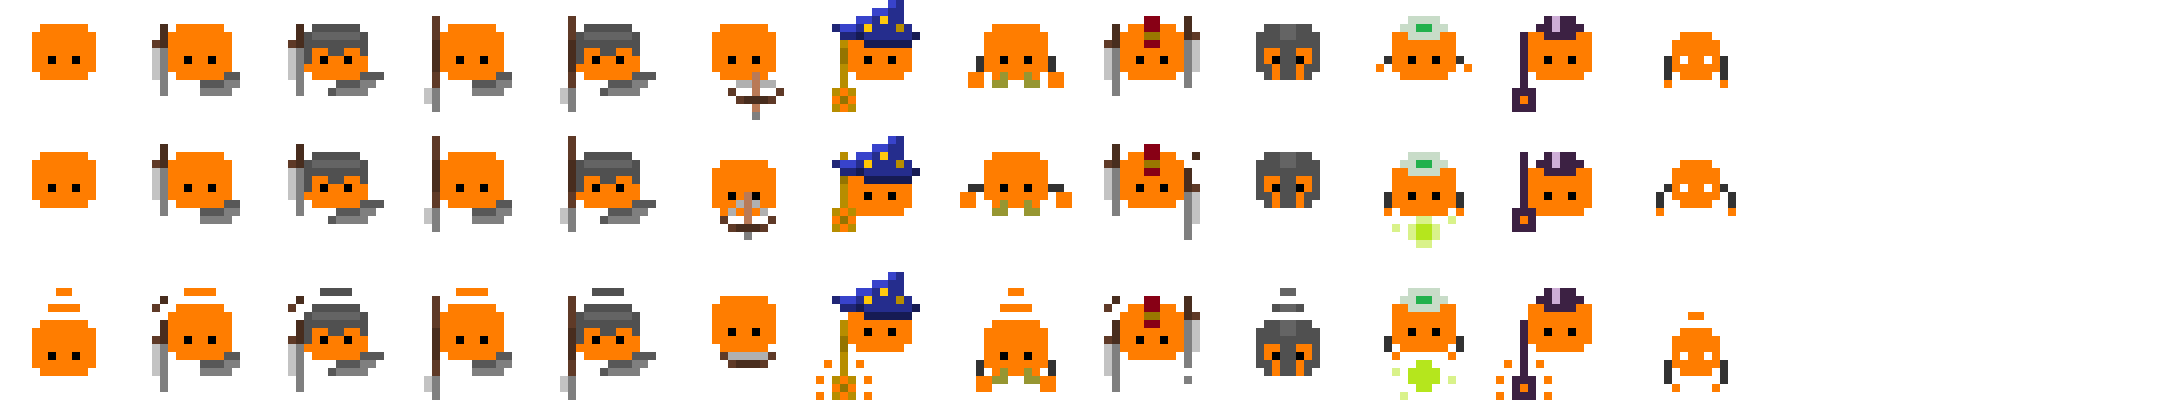
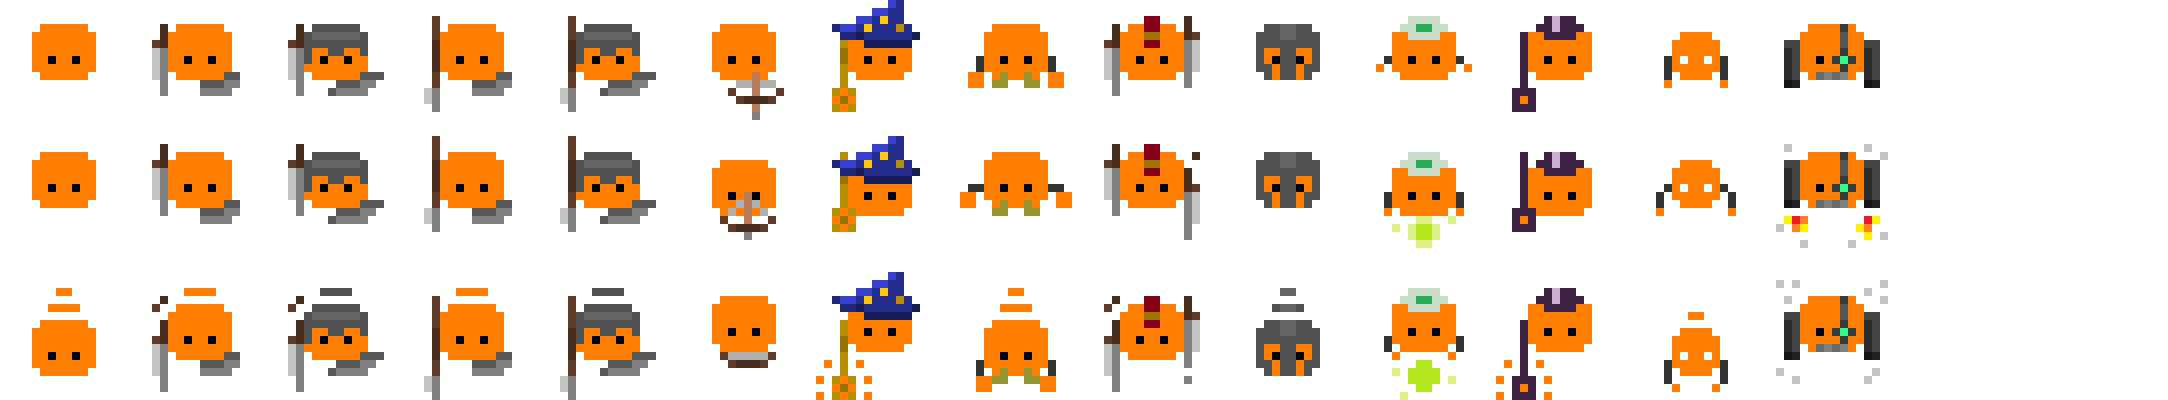
cyborg

diff --git a/js/src/painter.js b/js/src/painter.js
@@ -17,7 +17,8 @@ class Painter {
             t.warriors.forEach(w => {
                 if(!w.hp.alive) {
                     let tile = t.symbolTileset.get(0, 0);
-                    let rect = w.pos.toRectangle(w.displayInfo.size / 3, w.displayInfo.size / 3);
+                    let rect = w.pos.toRectangle(w.displayInfo.size / 3, w.displayInfo.size / 3)
+                        .move(w.displayInfo.size / 6, w.displayInfo.size / 6);
                     this.cvs.drawTile(tile, rect, 0, 0.3);
                 } else {
                     let f = w.hp.asFraction();
@@ -30,7 +31,8 @@ class Painter {
             t.warriors.forEach(w => {
                 if(w.hp.alive) {
                     let tile = t.unitTileset.get(w.displayInfo.row, w.attackInfo.state);
-                    let rect = w.pos.toRectangle(w.displayInfo.size, w.displayInfo.size).move(w.displayInfo.size/2, w.displayInfo.size/2);
+                    let rect = w.pos.toRectangle(w.displayInfo.size, w.displayInfo.size)
+                        .move(w.displayInfo.size / 2, w.displayInfo.size / 2);
                     this.cvs.drawTile(tile, rect, w.direction + Gmt.rad(0.5));
                 }
             });

diff --git a/js/src/warriors/units/cyborg.js b/js/src/warriors/units/cyborg.js
@@ -1,0 +1,20 @@
+const CyborgWarriorSTATS = {
+    maxHp: 80,
+    armor: 5,
+    spriteRow: 13,
+    displaySize: DEFAULT.UNIT_SPRITE_SIZE * 1.6,
+    attackWindup: 300,
+    attackWinddown: 900,
+    attackCooldown: 4000, 
+    minAttack: 9,
+    maxAttack: 15,
+    speed: DEFAULT.UNIT_SPEED * 0.7, 
+    range: DEFAULT.UNIT_RANGED_RANGE * 0.8, 
+    projectileClass: null
+};
+
+class CyborgWarrior extends Warrior {
+    constructor() {
+        super(CyborgWarriorSTATS);
+    }
+}

diff --git a/index.html b/index.html
@@ -28,6 +28,7 @@
         <script src="js/src/warriors/units/medic.js"></script> 
         <script src="js/src/warriors/units/warlock.js"></script> 
         <script src="js/src/warriors/units/skeleton.js"></script> 
+        <script src="js/src/warriors/units/cyborg.js"></script> 
         <script src="js/src/team.js"></script>
         <!-- MOCK -->
         <script src='js/mock.js'></script>

diff --git a/js/mock.js b/js/mock.js
@@ -7,7 +7,7 @@ const UNIT_TYPES = [
     MilitiaWarrior, SwordsmanWarrior, HeavySwordsmanWarrior,
     SpearmanWarrior, HeavySpearmanWarrior, ArcherWarrior, 
     WizardWarrior, BruteWarrior, BarbarianWarrior, TankWarrior, MedicWarrior,
-    WarlockWarrior, SkeletonWarrior
+    WarlockWarrior, SkeletonWarrior, CyborgWarrior
 ];
 
 
